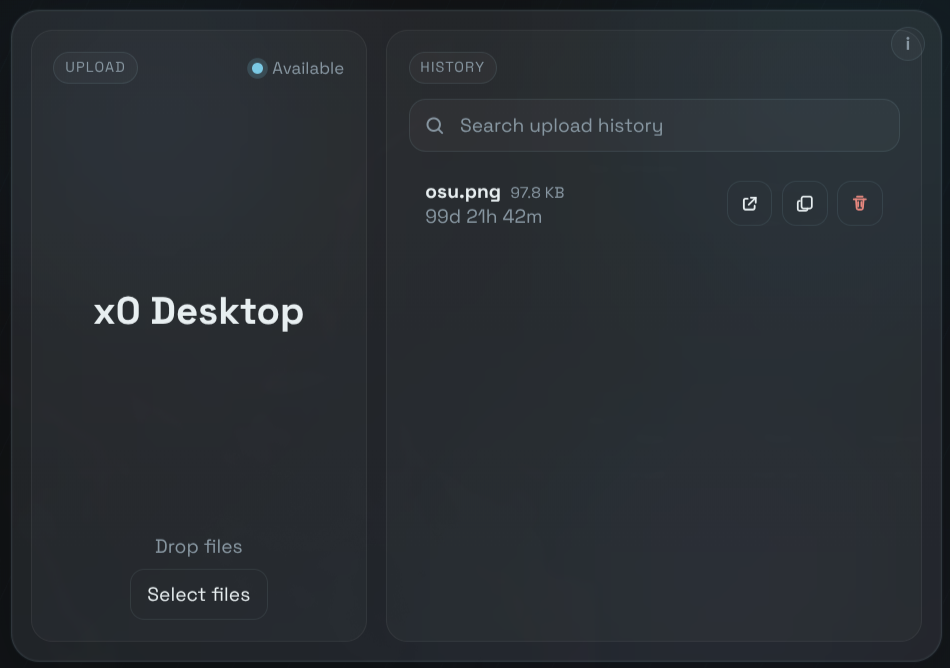
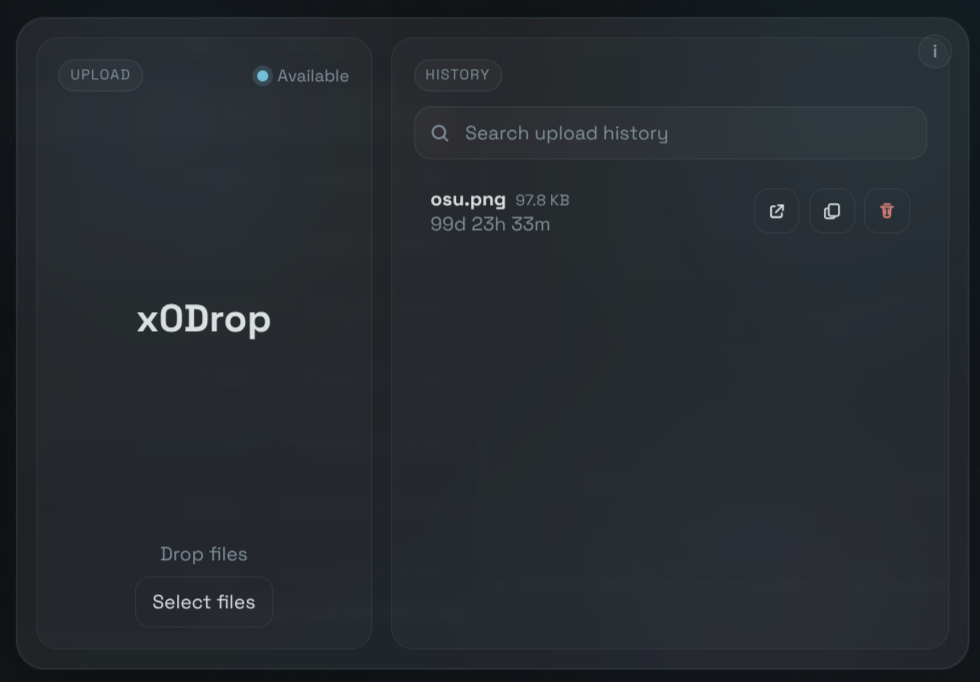
+add preview

diff --git a/src/components/UploadSidebar.tsx b/src/components/UploadSidebar.tsx
@@ -32,7 +32,7 @@ export function UploadSidebar({
 					<span>{statusTitle}</span>
 				</div>
 			</div>
-			<h1>x0 Desktop</h1>
+			<h1>x0Drop</h1>
 			<p>Drop files</p>
 			<input ref={fileInputRef} className="hiddenFileInput" type="file" multiple onChange={onFileInputChange} />
 			<button className="picker" onClick={onPickFiles} disabled={isSending}>

diff --git a/README.md b/README.md
@@ -1,6 +1,9 @@
-# <h1 align="center">x0Drop <img src="assets/app-icon.png" width="20px"></h1>
+# <h1 align="center">x0Drop 📤</h1>
 
 > 📤 x0Drop is a desktop client for `x0.at`, built with Electron, React, and Vite, focused on fast uploads, local history, and a cleaner desktop workflow.
+
+
+> 💡 Sharing files with x0.at from the CLI is fast and awesome… but not everyone enjoys typing commands just to send a file.
 
 <center><img alt="x0Drop" src="assets/desktop.png"/></center>
 
@@ -8,35 +11,13 @@
 
 ## ✨ Features
 
-- Drag & drop file staging  
-- Native file picker support  
-- Upload history stored locally per machine  
-- Automatic link copy after upload  
-- Link opening and history removal actions  
-- File size preview in upload modal and history  
-- Duplicate file detection using SHA-256 hash  
-- Upload availability indicator (`Available`, `Offline`, `Blocked`, `Unreachable`)  
-- Estimated retention countdown based on x0.at retention rules  
-- Upload status toasts and animated modal transitions  
-
----
-
-## 🔐 Notes
-
-- Files are uploaded to `https://x0.at/`  
-- Upload history is stored locally on the device  
-- Duplicate detection is based on a locally stored SHA-256 file hash  
-- Browser fallback mode is available during development, but the intended experience is the Electron app  
-
----
-
-## 📦 Upload Behavior
-
-- Drag files to stage them before sending  
-- File size is shown before upload  
-- Uploaded links are copied automatically  
-- Duplicate files already present in history are skipped  
-- Local history keeps upload date, file size, retention estimate, and remote URL  
+- 📤 Drag & drop uploads with instant link copy  
+- 🕓 Local history of all uploads  
+- 📏 File size preview before sending  
+- 🧠 Duplicate detection (SHA-256)  
+- ⏳ Retention countdown based on x0.at rules  
+- 🟢 Upload status indicator (online/offline)  
+- 🔗 Quick access to links (open & remove)  
 
 ---
 